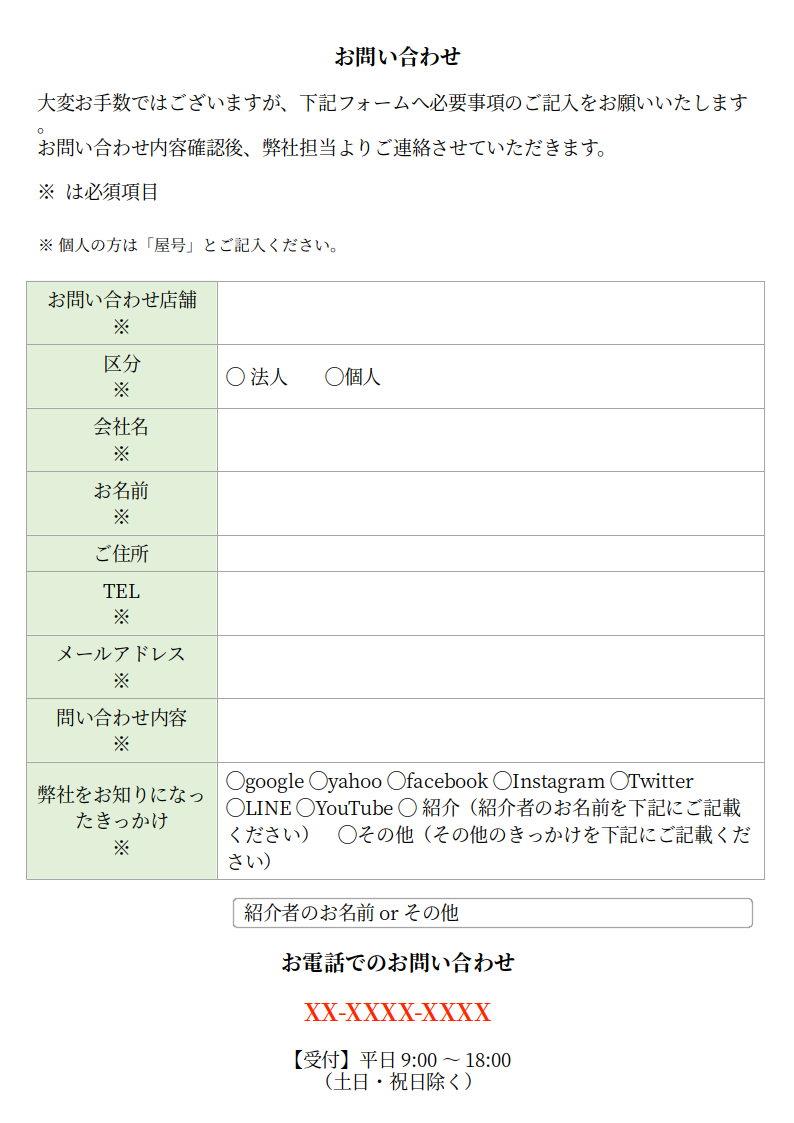
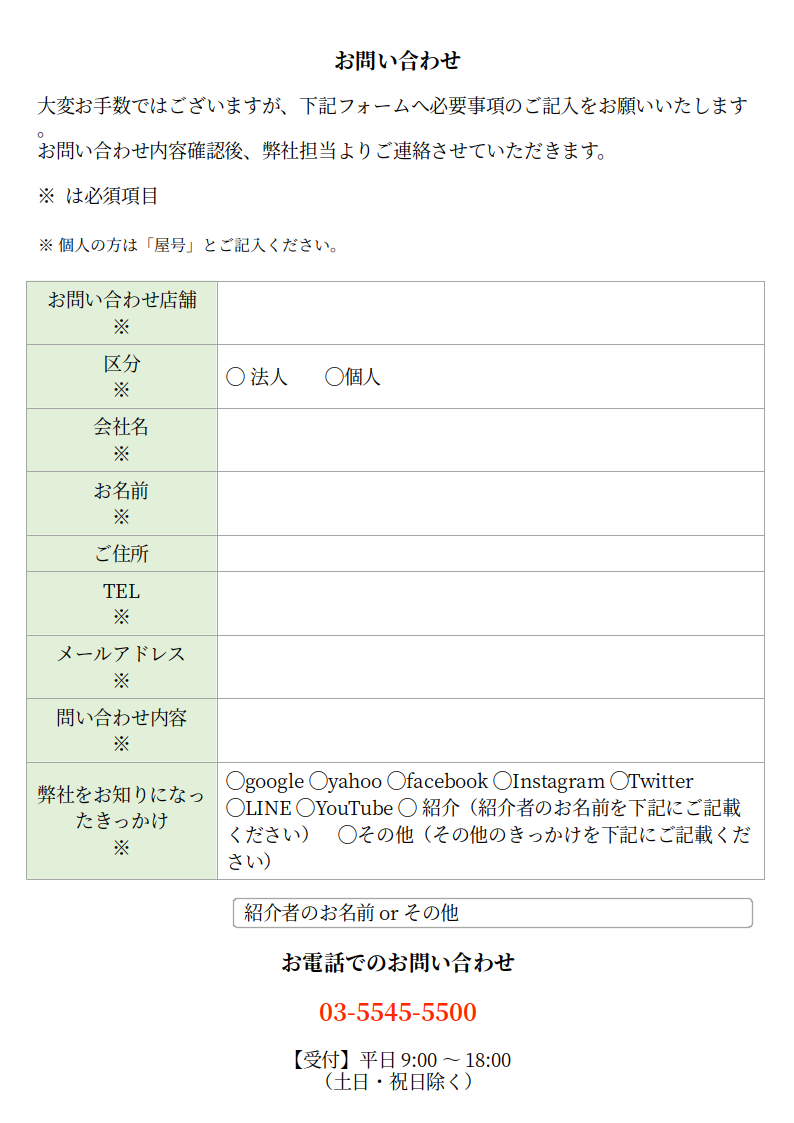
style changes

Changed region(s): [[0.0302, 0.0312, 0.8161, 0.187], [0.3929, 0.8727, 0.6045, 0.935], [0.8463, 0.0623, 0.937, 0.1247]]

diff --git a/_includes/navbar.html b/_includes/navbar.html
@@ -1,7 +1,7 @@
 <!-- Navigation -->
 <nav class="navbar navbar-expand-lg navbar-light fixed-top" id="mainNav">
   <div class="container">
-    <a class="navbar-brand" href="{{"/" | relative_url }}">{{ site.title | escape }}</a>
+    <a class="navbar-brand" href="{{"/" | relative_url }}">SEVEN STAR SYSTEM 株式会社</a>
     <img class="img-fluid logo" src="/img/logo.jpg" alt="recommend chart">
     <!--
     <div class="lang">

diff --git a/_layouts/home.html b/_layouts/home.html
@@ -85,6 +85,8 @@ layout: default
           <h1 lang="jp">〒108-0023</h1>
           <h1 lang="jp">東京都港区芝浦三丁目19-18</h1>
           <h1>内村芝浦ビル4F</h1>
+          <hr>
+          <h1>03-5545-5500</h1>
         </div>
 
         <!-- Pager -->

diff --git a/assets/main.scss b/assets/main.scss
@@ -29,5 +29,5 @@ h2.subheading{
 }
 
 .logo {
-    width: 12%
+    width: 20%
 }

diff --git a/index.md b/index.md
@@ -1,4 +1,4 @@
 ---
 layout: home
-background: '/img/bg-index.jpg'
+background: '/img/tokyo.jpg'
 ---
